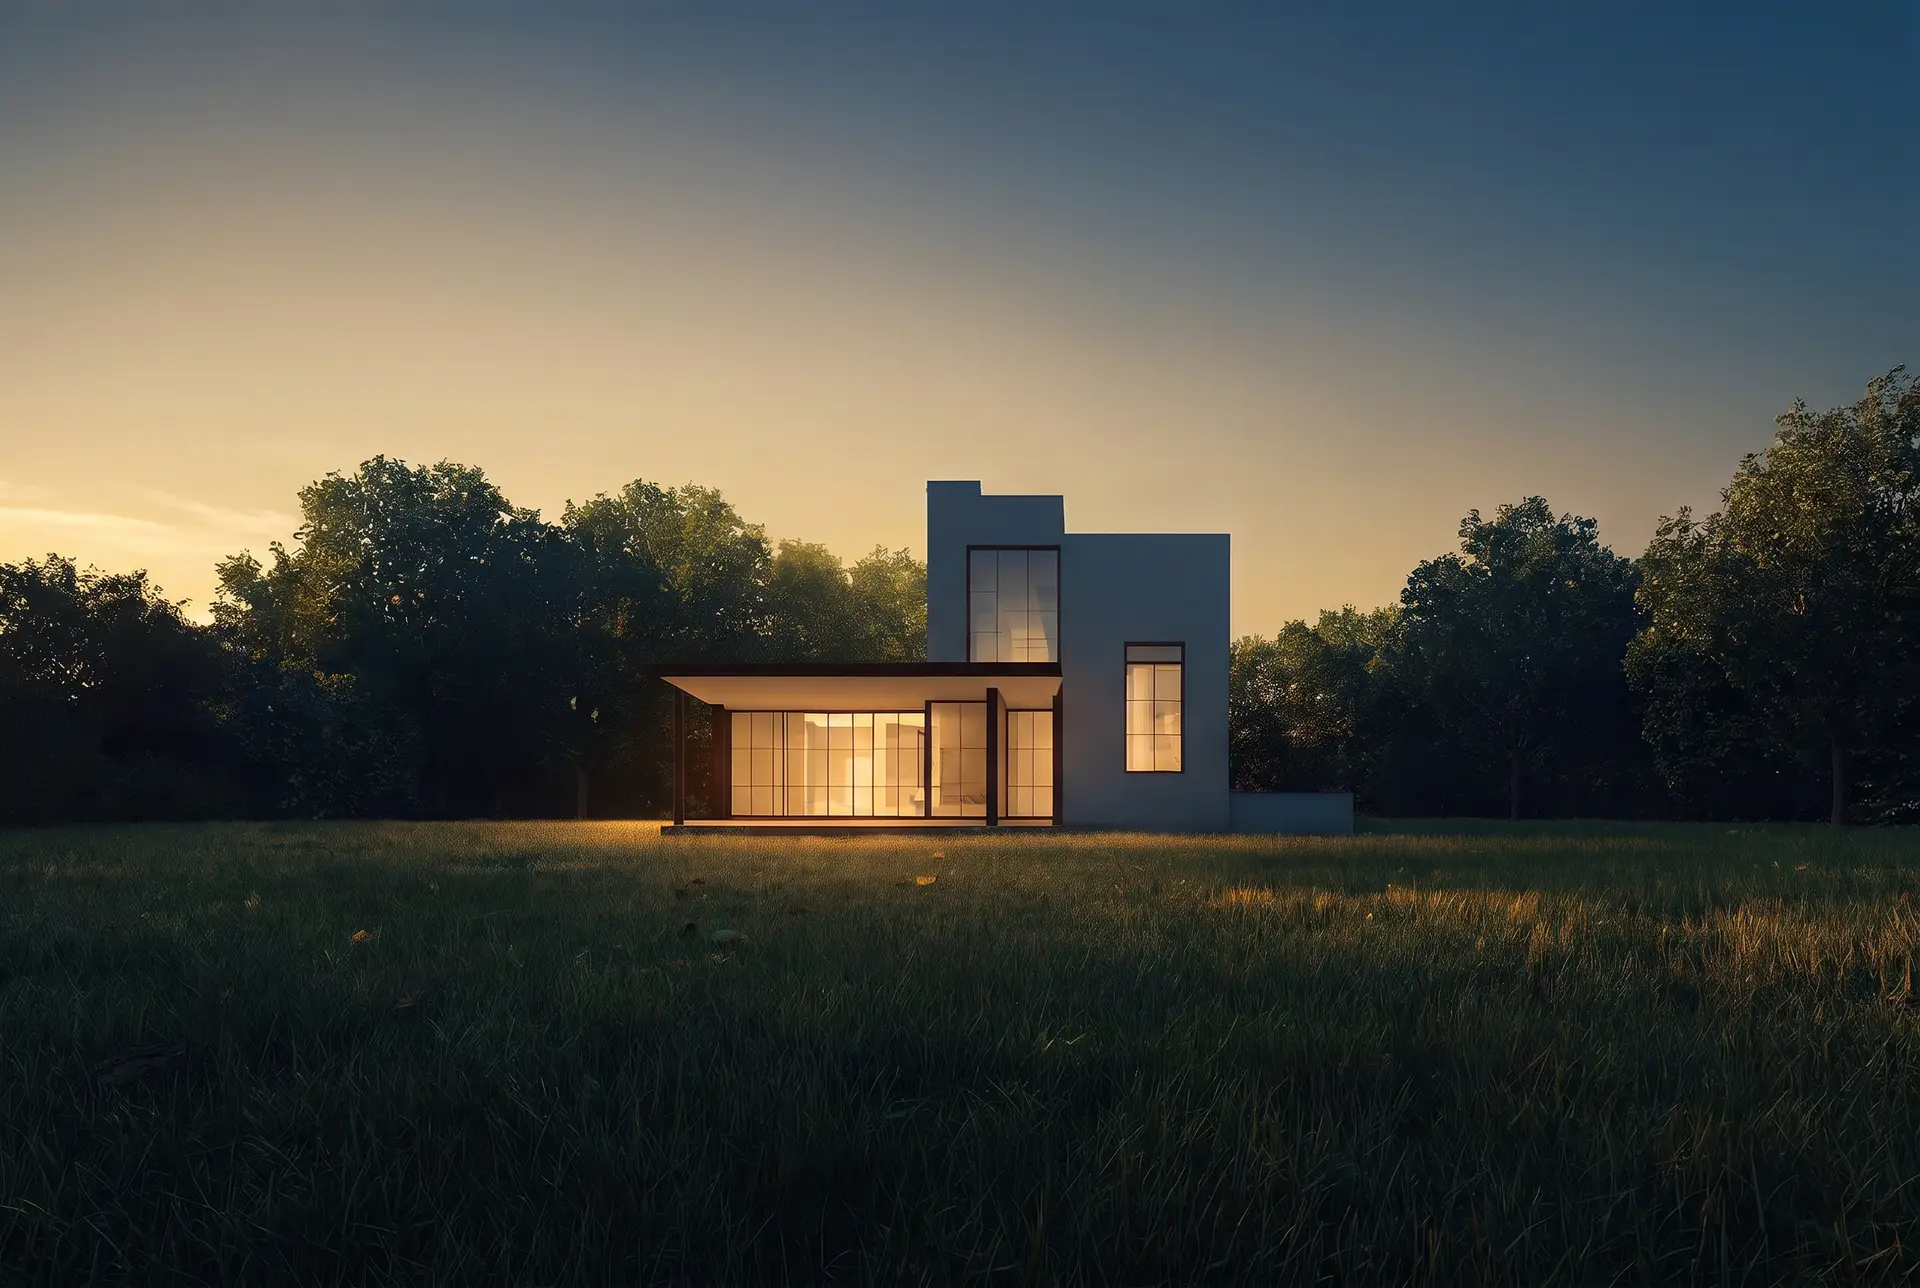
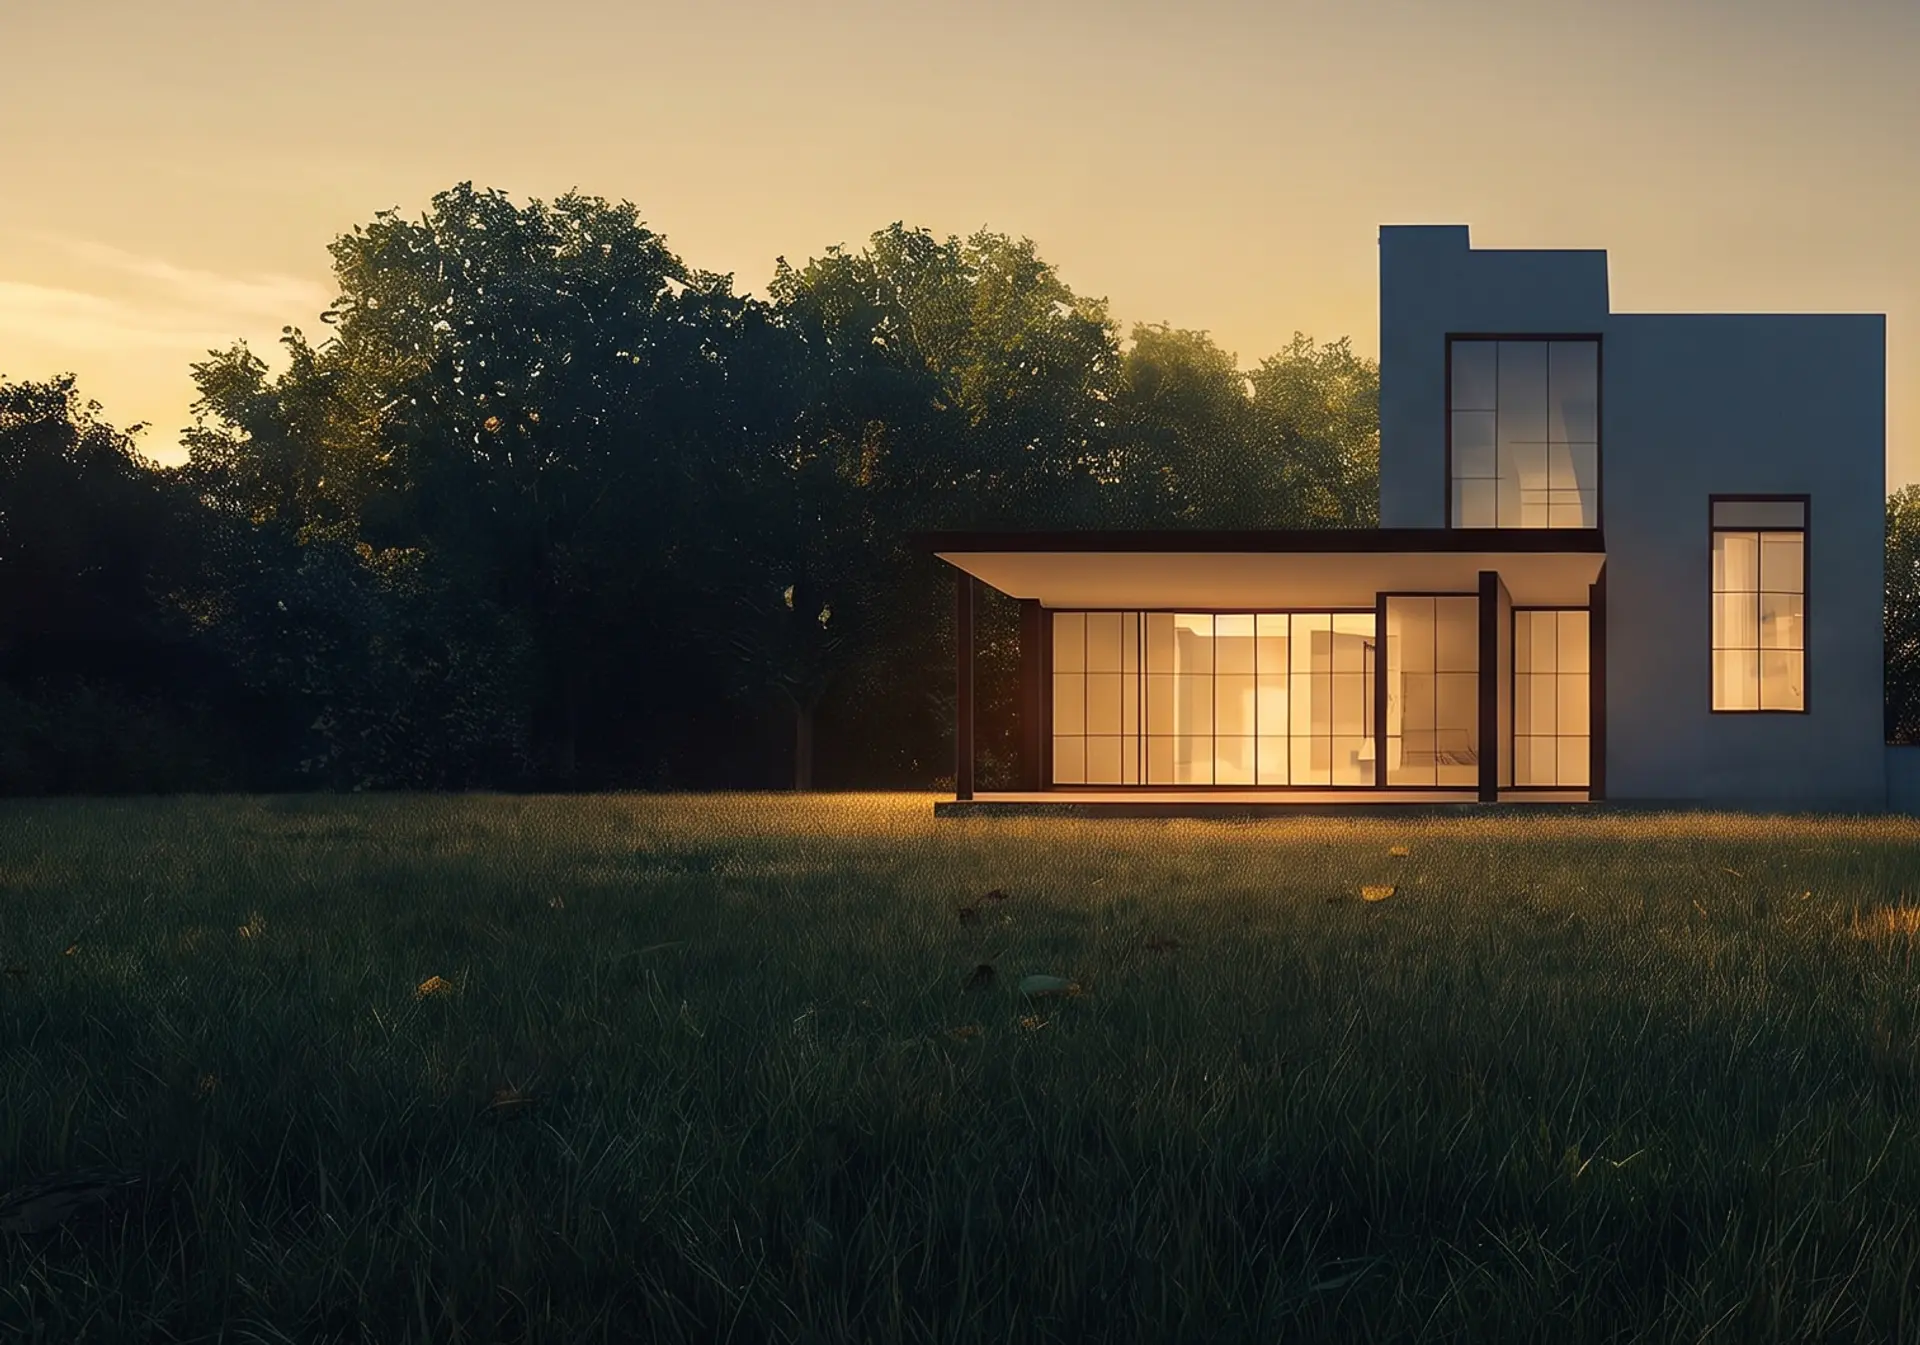
[Claude] Hero Cover: кадр фото под макет, зазор заголовка, фон в медиатеке
- фон перекадрирован под макет (дом крупный справа, меньше травы)
- убран двойной перенос в заголовке -> небольшой отступ перед акцентом
- дефолтный фон грузится в медиатеку WP и подставляется в блок (виден в редакторе)

diff --git a/Plugin for WP sites/library/blocks/hero-cover/src/style.scss b/Plugin for WP sites/library/blocks/hero-cover/src/style.scss
@@ -124,8 +124,10 @@
 		line-height: 1;
 		letter-spacing: -0.03em;
 
-		// Акцентная строка: курсив + тонкое начертание (как в макете).
+		// Акцентная строка: с новой строки, небольшой отступ, курсив + тонкое начертание.
 		em, i {
+			display: block;
+			margin-top: 0.4em;
 			font-style: italic;
 			font-weight: 300;
 		}